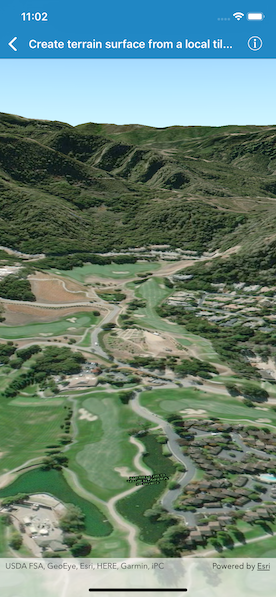
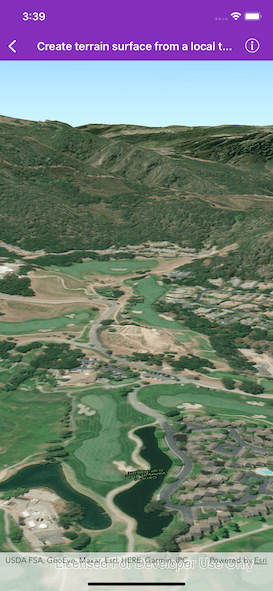
Update README and screenshot.

diff --git a/arcgis-ios-sdk-samples/Scenes/Create terrain surface from a local tile package/README.md b/arcgis-ios-sdk-samples/Scenes/Create terrain surface from a local tile package/README.md
@@ -25,7 +25,7 @@ When loaded, the sample will show a scene with a terrain surface applied. Pan an
 
 ## Offline data
 
-This sample uses the [Monterey Elevation](https://arcgisruntime.maps.arcgis.com/home/item.html?id=cce37043eb0440c7a5c109cf8aad5500) tile package. It is downloaded from ArcGIS Online automatically.
+This sample uses the [Monterey Elevation](https://arcgisruntime.maps.arcgis.com/home/item.html?id=52ca74b4ba8042b78b3c653696f34a9c) tile package, using CompactV2 storage format (.tpkx). It is downloaded from ArcGIS Online automatically.
 
 ## About the data
 
@@ -33,7 +33,7 @@ This terrain data comes from Monterey, California.
 
 ## Additional information
 
-The tile package must be a LERC (limited error raster compression) encoded TPK. Details on the topic can be found in [Share a tile package](https://pro.arcgis.com/en/pro-app/help/sharing/overview/tile-package.htm) in the *ArcGIS Pro* documentation.
+The tile package must be a LERC (limited error raster compression) encoded TPKX. Details on the topic can be found in [Share a tile package](https://pro.arcgis.com/en/pro-app/help/sharing/overview/tile-package.htm) in the *ArcGIS Pro* documentation.
 
 ## Tags
 
